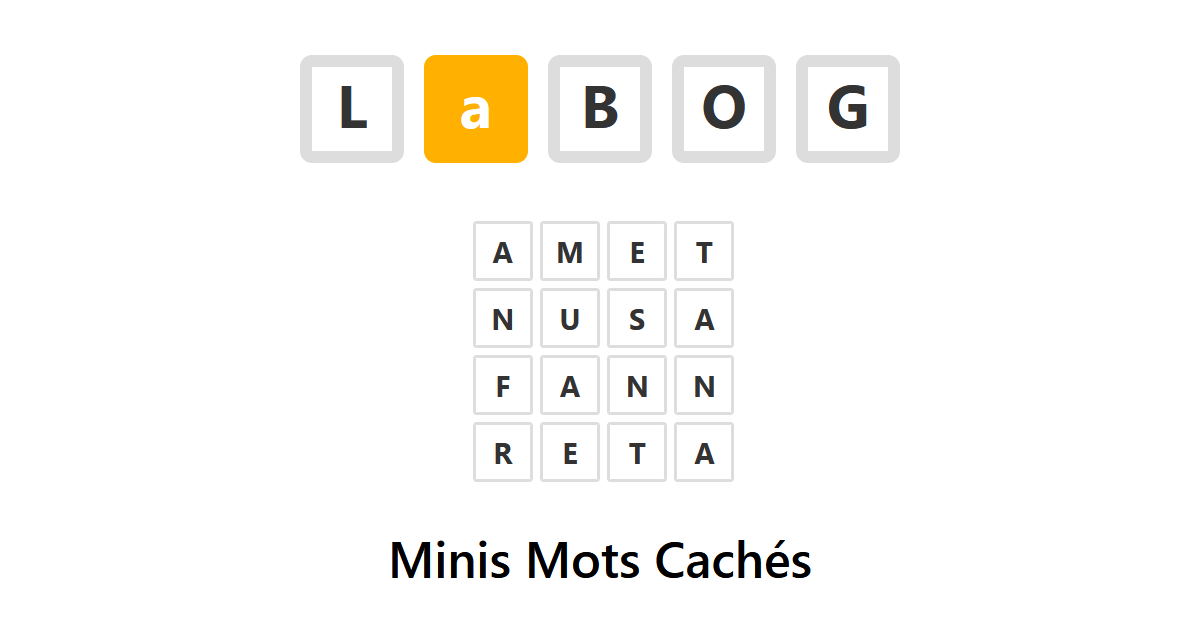
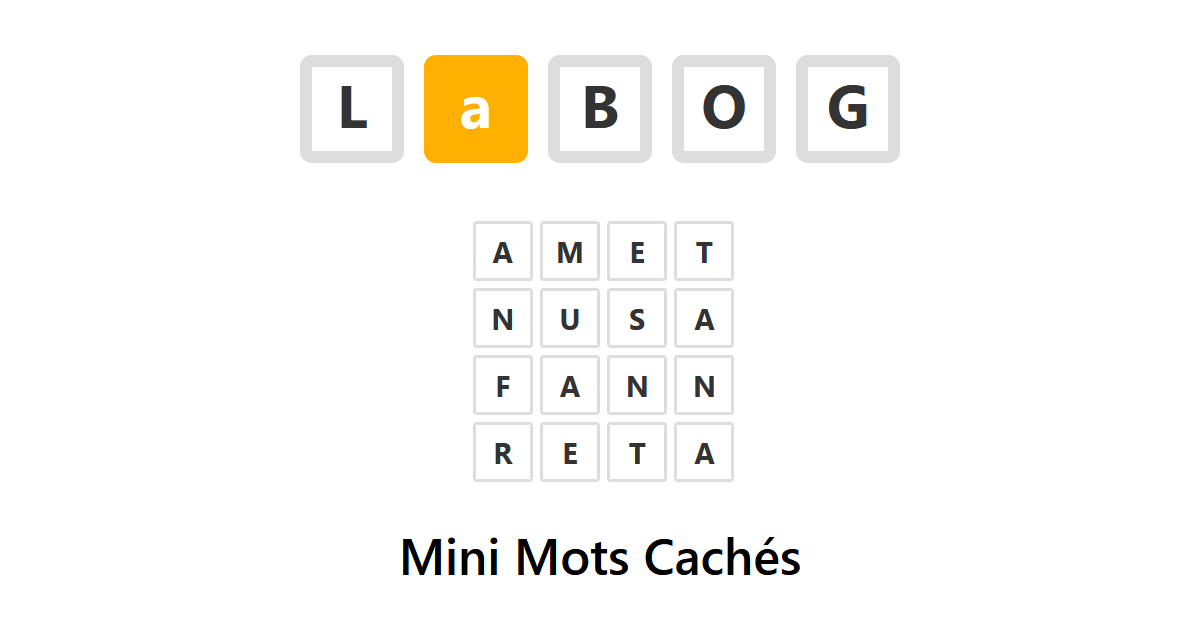
A few updates...

Changed region(s): [[0.3083, 0.8444, 0.6783, 0.9349]]

diff --git a/labog/labog.min.css b/labog/labog.min.css
@@ -1,2 +1,2 @@
 /*! normalize.css v3.0.3 | MIT License | github.com/necolas/normalize.css */
-html{font-family:sans-serif;-ms-text-size-adjust:100%;-webkit-text-size-adjust:100%}body{margin:0}article,aside,details,figcaption,figure,footer,header,hgroup,main,menu,nav,section,summary{display:block}audio,canvas,progress,video{display:inline-block;vertical-align:baseline}audio:not([controls]){display:none;height:0}[hidden],template{display:none}a{background-color:transparent}a:active,a:hover{outline:0}abbr[title]{border-bottom:1px dotted}b,strong{font-weight:700}dfn{font-style:italic}h1{font-size:2em;margin:.67em 0}mark{background:#ff0;color:#000}small{font-size:80%}sub,sup{font-size:75%;line-height:0;position:relative;vertical-align:baseline}sup{top:-.5em}sub{bottom:-.25em}img{border:0}svg:not(:root){overflow:hidden}figure{margin:1em 40px}hr{box-sizing:content-box;height:0}pre{overflow:auto}code,kbd,pre,samp{font-family:monospace,monospace;font-size:1em}button,input,optgroup,select,textarea{color:inherit;font:inherit;margin:0}button{overflow:visible}button,select{text-transform:none}button,html input[type=button],input[type=reset],input[type=submit]{-webkit-appearance:button;cursor:pointer}button[disabled],html input[disabled]{cursor:default}button::-moz-focus-inner,input::-moz-focus-inner{border:0;padding:0}input{line-height:normal}input[type=checkbox],input[type=radio]{box-sizing:border-box;padding:0}input[type=number]::-webkit-inner-spin-button,input[type=number]::-webkit-outer-spin-button{height:auto}input[type=search]{-webkit-appearance:textfield;box-sizing:content-box}input[type=search]::-webkit-search-cancel-button,input[type=search]::-webkit-search-decoration{-webkit-appearance:none}fieldset{border:1px solid silver;margin:0 2px;padding:.35em .625em .75em}legend{border:0}textarea{overflow:auto}optgroup{font-weight:700}table{border-collapse:collapse;border-spacing:0}legend,td,th{padding:0}@keyframes blink{67%{opacity:0}}@keyframes shake{0%{transform:translate(1px,1px) rotate(0deg)}10%{transform:translate(-1px,-2px) rotate(-1deg)}20%{transform:translate(-3px,0) rotate(1deg)}30%{transform:translate(3px,2px) rotate(0deg)}40%{transform:translate(1px,-1px) rotate(1deg)}50%{transform:translate(-1px,2px) rotate(-1deg)}60%{transform:translate(-3px,1px) rotate(0deg)}70%{transform:translate(3px,1px) rotate(-1deg)}80%{transform:translate(-1px,-1px) rotate(1deg)}90%{transform:translate(1px,2px) rotate(0deg)}to{transform:translate(1px,-2px) rotate(-1deg)}}@keyframes pop{0%{opacity:0;transform:scale(.8)}40%{opacity:1;transform:scale(1.1)}}@keyframes tinUpOut{0%,20%,40%,50%{opacity:1;-webkit-transform:scale(1,1) translateY(0);transform:scale(1,1) translateY(0)}10%,30%{opacity:1;-webkit-transform:scale(1.1,1.1) translateY(0);transform:scale(1.1,1.1) translateY(0)}to{opacity:0;-webkit-transform:scale(1,1) translateY(-900%);transform:scale(1,1) translateY(-900%)}}@keyframes swap{0%{border-color:var(--fond-correct)}}:root{--fond-general:#fff;--texte-normal:#333;--texte-gras:#ffb000;--texte-clair:#888;--texte-jouee:#fff;--filigrane:#ddd;--message-fond:#dc267f;--message-texte:#fff;--touche-fond:#ccc;--touche-texte:#333;--fond-correct:#ffb000;--fond-present:#648fff;--fond-absent:#eee;--fond-petales:#eee;--couleur-icone:#bbb;--texte-lien:#2962ff}@media (prefers-color-scheme:dark){:root{--fond-general:#222;--texte-normal:#eee;--texte-gras:#ffb000;--texte-jouee:#fff;--texte-clair:#888;--filigrane:#444;--message-fond:#dc267f;--message-texte:#fff;--touche-fond:#888;--touche-texte:#fff;--fond-correct:#ffb000;--fond-present:#648fff;--fond-absent:#333;--fond-petales:#ddd;--couleur-icone:#888;--texte-lien:#2962ff}}*,:after,:before{-moz-box-sizing:border-box;-webkit-box-sizing:border-box;box-sizing:border-box}html{font-family:-apple-system,BlinkMacSystemFont,"Segoe UI",Helvetica,Arial,sans-serif;font-size:100%;font-weight:400;line-height:1.5}body{background-color:var(--fond-general);color:var(--texte-normal);overscroll-behavior-y:contain;height:100vh}.container,main{display:flex;flex-direction:column}.container{height:100vh;margin:0 auto;max-width:500px;padding:0;width:100%}.fix100,.fix100 .container,.fix100>body{height:100%}main{flex:1 0 auto;flex-grow:1}svg{fill:var(--couleur-icone);height:1.75em;width:1.75em}.grid button.key-yes,.icone{cursor:pointer}.icone.ferme svg{animation:blink 1s step-end infinite}#shuffle svg{transform:rotate(33deg)}.header,header{display:flex;justify-content:space-between}header{align-items:baseline;border-bottom:1px solid var(--filigrane);padding:0 5px;user-select:none}.header{align-items:center}.reponses,h1{text-align:center}h1{font-size:2.2rem;font-weight:800;letter-spacing:.1rem;line-height:1.3;margin:-2px 0 2px}#inside{margin:5px;overflow-y:auto;height:100px}.reponses{color:var(--texte-normal);font-size:105%;margin:0;padding:0;word-spacing:.4rem}.reponses.small{font-size:100%!important}.reponses.smaller{font-size:95%!important}.reponses b{word-spacing:normal}.reponses u{color:var(--texte-gras)}@media only screen and (max-width:500px){.reponses{font-size:100%;word-spacing:.25rem}.reponses.small{font-size:95%!important}.reponses.smaller{font-size:90%!important}}.score{display:flex;flex-direction:row;align-items:center;justify-content:space-between;padding:0 5px;margin:0}.score strong{flex:4}.score span{flex:2;text-align:right;letter-spacing:-1px}.score span#jours{flex:1}#progression div{background-color:var(--filigrane);border-radius:3px;flex:1;height:6px;margin:1px 1px 9px 0}#progression div.yes,.grid button.key-played{background-color:var(--fond-present)}#progression div.boss,.bravo span.sept{background-color:var(--fond-correct)}#plateau,footer{display:flex;user-select:none}#plateau{flex-direction:row;align-items:center;justify-content:center;padding:0 5px 5px;gap:3px}.case{border:2px dotted var(--filigrane);border-radius:3px;font-size:1.25rem;font-weight:700;width:38px;height:38px;position:relative;text-align:center}.filled-ko,.filled-ok{transition:background-color .3s ease,border .3s ease}.filled-ok{background:var(--fond-correct);border-color:var(--fond-correct)}.filled-ko{background:var(--fond-absent);border-color:var(--fond-absent)}.pop{animation:pop .1s ease-in-out;border-style:solid}.curseur{animation:blink 1s step-end infinite;color:var(--texte-normal);position:absolute;left:0;right:0;margin:auto}footer{padding:5px;touch-action:manipulation}footer>div{height:218px}button,p.archive{cursor:pointer;user-select:none}button{border:0;font-family:inherit;font-weight:400;margin:0;padding:0}button:active{transform:scale(.9)}.sides{flex:1;display:flex;flex-direction:column;align-items:center;justify-content:flex-end}.sides button{background-color:var(--fond-present);border-radius:4px;color:var(--texte-jouee);font-size:.8rem;height:38px;padding:5px 0 0;width:38px}.resultats button svg,.sides button svg{fill:var(--texte-jouee)}.grid{box-sizing:border-box;display:grid;grid-template-columns:repeat(4,1fr);grid-template-rows:repeat(4,1fr);grid-gap:6px;padding:0;user-select:none;width:218px;height:218px}.grid button,.popup h2{font-weight:700;text-align:center}.grid button{border:3px solid var(--filigrane);border-radius:3px;cursor:not-allowed;font-size:1.5rem;line-height:1.33;position:relative}.grid button.key-played{border-color:var(--fond-present)}.grid button.key-last{border-color:var(--fond-correct);background-color:var(--fond-correct)}.grid button.key-no{background-color:var(--filigrane)}#keyboard{margin-bottom:2.5px}.popup{display:none;position:absolute;background-color:var(--fond-general);font-size:.92rem;line-height:1.4;padding:10px 12px;width:100%;height:100%;min-height:100%;overflow:auto;max-width:500px;z-index:11}.popup .close{margin-left:10px}.popup h2{font-size:1.25rem;text-transform:uppercase;margin:0}.note,p.goto a span{color:var(--texte-clair)}.note{margin-top:10px;font-style:italic}a,a:active,a:hover,a:visited{color:var(--texte-lien);font-weight:700}.exemples{border-top:1px solid var(--filigrane);border-bottom:1px solid var(--filigrane)}ul{margin-bottom:0;margin-top:.33rem;padding-left:25px}.informations a{text-decoration:none}.informations h4{margin:20px 0 10px}p.archive{line-height:1.7;margin-top:20px;text-align:center;touch-action:manipulation}p.archive *,svg{pointer-events:none}.archives .case{border-style:solid;display:inline-block;font-size:.8rem;font-weight:400;height:28px;margin:0 0 0 1px;width:28px}.archives .filled-ko{margin-right:3px;width:60px}.parametres .bloc{border-bottom:1px solid var(--filigrane);padding:.25rem 0 .75rem}.parametres h4{margin:0}.footnote{position:absolute;bottom:0;right:0;padding:12px;color:var(--texte-clair);font-size:.75rem;text-align:right}.message,.resultats{text-align:center}.grid button,.resultats textarea,p.goto a{background-color:var(--fond-general)}.resultats textarea{border:1px solid var(--filigrane);height:170px;overflow:hidden;padding:12px 15px;resize:none;user-select:none;width:35ch}.resultats button{color:var(--texte-jouee);border:0;border-radius:5px;font-size:1.4rem;margin:-5px 5px 0;padding:3px 10px}.resultats button.correct{background-color:var(--fond-correct);border-color:var(--fond-correct)}.resultats button.present{background-color:var(--fond-present);border-color:var(--fond-present)}.resultats button.correct svg{height:1.25rem;width:1.25rem;transform:rotate(180deg) translateY(-2px)}.resultats button.present svg{height:1.5rem;width:1.5rem;transform:translateY(4px)}.resultats .note{margin-top:-5px;font-size:.82rem}p.goto{display:flex;flex-direction:row;justify-content:space-around}p.goto a{animation:swap 2s infinite;border:2px solid var(--filigrane);border-radius:5px;color:var(--texte-lien);font-weight:700;padding:3px 5px;text-decoration:none;width:78px}p.goto a span{display:block;font-size:.78rem;font-weight:400;line-height:1;margin-top:2px}p.goto a.goto-2{animation-delay:.5s}p.goto a.goto-3{animation-delay:1s}p.goto a.goto-4{animation-delay:1.5s}.message{position:absolute;top:20%;left:0;display:none;background-color:var(--message-fond);color:var(--message-texte);padding:20px 30px;font-size:1.25rem;margin:0 auto;right:0;width:fit-content;animation:shake .4s;cursor:pointer}.bravo span,.close{display:inline-block}.bravo,.close{position:absolute}.close{color:var(--filigrane);font-size:x-small;right:5px;top:2px}.bravo{top:25%;left:0;display:none;background-color:transparent;color:var(--texte-normal);padding:5px 10px;margin:0 auto;right:0;width:fit-content;animation-name:tinUpOut;animation-duration:1s}.bravo span{background-color:var(--fond-present);color:var(--message-texte);padding:5px 10px;border-radius:5px}
+html{font-family:sans-serif;-ms-text-size-adjust:100%;-webkit-text-size-adjust:100%}body{margin:0}article,aside,details,figcaption,figure,footer,header,hgroup,main,menu,nav,section,summary{display:block}audio,canvas,progress,video{display:inline-block;vertical-align:baseline}audio:not([controls]){display:none;height:0}[hidden],template{display:none}a{background-color:transparent}a:active,a:hover{outline:0}abbr[title]{border-bottom:1px dotted}b,strong{font-weight:700}dfn{font-style:italic}h1{font-size:2em;margin:.67em 0}mark{background:#ff0;color:#000}small{font-size:80%}sub,sup{font-size:75%;line-height:0;position:relative;vertical-align:baseline}sup{top:-.5em}sub{bottom:-.25em}img{border:0}svg:not(:root){overflow:hidden}figure{margin:1em 40px}hr{box-sizing:content-box;height:0}pre{overflow:auto}code,kbd,pre,samp{font-family:monospace,monospace;font-size:1em}button,input,optgroup,select,textarea{color:inherit;font:inherit;margin:0}button{overflow:visible}button,select{text-transform:none}button,html input[type=button],input[type=reset],input[type=submit]{-webkit-appearance:button;cursor:pointer}button[disabled],html input[disabled]{cursor:default}button::-moz-focus-inner,input::-moz-focus-inner{border:0;padding:0}input{line-height:normal}input[type=checkbox],input[type=radio]{box-sizing:border-box;padding:0}input[type=number]::-webkit-inner-spin-button,input[type=number]::-webkit-outer-spin-button{height:auto}input[type=search]{-webkit-appearance:textfield;box-sizing:content-box}input[type=search]::-webkit-search-cancel-button,input[type=search]::-webkit-search-decoration{-webkit-appearance:none}fieldset{border:1px solid silver;margin:0 2px;padding:.35em .625em .75em}legend{border:0}textarea{overflow:auto}optgroup{font-weight:700}table{border-collapse:collapse;border-spacing:0}legend,td,th{padding:0}@keyframes blink{67%{opacity:0}}@keyframes shake{0%{transform:translate(1px,1px) rotate(0deg)}10%{transform:translate(-1px,-2px) rotate(-1deg)}20%{transform:translate(-3px,0) rotate(1deg)}30%{transform:translate(3px,2px) rotate(0deg)}40%{transform:translate(1px,-1px) rotate(1deg)}50%{transform:translate(-1px,2px) rotate(-1deg)}60%{transform:translate(-3px,1px) rotate(0deg)}70%{transform:translate(3px,1px) rotate(-1deg)}80%{transform:translate(-1px,-1px) rotate(1deg)}90%{transform:translate(1px,2px) rotate(0deg)}to{transform:translate(1px,-2px) rotate(-1deg)}}@keyframes pop{0%{opacity:0;transform:scale(.8)}40%{opacity:1;transform:scale(1.1)}}@keyframes tinUpOut{0%,20%,40%,50%{opacity:1;-webkit-transform:scale(1,1) translateY(0);transform:scale(1,1) translateY(0)}10%,30%{opacity:1;-webkit-transform:scale(1.1,1.1) translateY(0);transform:scale(1.1,1.1) translateY(0)}to{opacity:0;-webkit-transform:scale(1,1) translateY(-900%);transform:scale(1,1) translateY(-900%)}}@keyframes swap{0%{border-color:var(--fond-correct)}}:root{--fond-general:#fff;--texte-normal:#333;--texte-gras:#ffb000;--texte-clair:#888;--texte-jouee:#fff;--filigrane:#ddd;--message-fond:#dc267f;--message-texte:#fff;--touche-fond:#ccc;--touche-texte:#333;--fond-correct:#ffb000;--fond-present:#648fff;--fond-absent:#eee;--fond-petales:#eee;--couleur-icone:#bbb;--texte-lien:#2962ff}@media (prefers-color-scheme:dark){:root{--fond-general:#222;--texte-normal:#eee;--texte-gras:#ffb000;--texte-jouee:#fff;--texte-clair:#888;--filigrane:#444;--message-fond:#dc267f;--message-texte:#fff;--touche-fond:#888;--touche-texte:#fff;--fond-correct:#ffb000;--fond-present:#648fff;--fond-absent:#333;--fond-petales:#ddd;--couleur-icone:#888;--texte-lien:#2962ff}}*,:after,:before{-moz-box-sizing:border-box;-webkit-box-sizing:border-box;box-sizing:border-box}html{font-family:-apple-system,BlinkMacSystemFont,"Segoe UI",Helvetica,Arial,sans-serif;font-size:100%;font-weight:400;line-height:1.5}body{background-color:var(--fond-general);color:var(--texte-normal);overscroll-behavior-y:contain;height:100vh}.container,main{display:flex;flex-direction:column}.container{height:100vh;margin:0 auto;max-width:500px;padding:0;width:100%}.fix100,.fix100 .container,.fix100>body{height:100%}main{flex:1 0 auto;flex-grow:1}svg{fill:var(--couleur-icone);height:1.75em;width:1.75em}.grid button.key-yes,.icone{cursor:pointer}.icone.ferme svg{animation:blink 1s step-end infinite}#shuffle svg{transform:rotate(33deg)}.header,header{display:flex;justify-content:space-between}header{align-items:baseline;border-bottom:1px solid var(--filigrane);padding:0 5px;user-select:none}.header{align-items:center}.reponses,h1{text-align:center}h1{font-size:2.2rem;font-weight:800;letter-spacing:.1rem;line-height:1.3;margin:-2px 0 2px}#inside{margin:5px;overflow-y:auto;height:100px}.reponses{color:var(--texte-normal);font-size:105%;margin:0;padding:0;word-spacing:.4rem}.reponses.small{font-size:100%!important}.reponses.smaller{font-size:95%!important}.reponses b{word-spacing:normal}.reponses u{color:var(--texte-gras)}@media only screen and (max-width:500px){.reponses{font-size:100%;word-spacing:.25rem}.reponses.small{font-size:95%!important}.reponses.smaller{font-size:90%!important}}.score{display:flex;flex-direction:row;align-items:center;justify-content:space-between;padding:0 5px;margin:0}.score strong{flex:4}.score span{flex:2;text-align:right;letter-spacing:-1px}.score span#jours{flex:1}#progression div{background-color:var(--filigrane);border-radius:3px;flex:1;height:6px;margin:1px 1px 9px 0}#progression div.yes,.grid button.key-played{background-color:var(--fond-present)}#progression div.boss,.bravo span.sept{background-color:var(--fond-correct)}#plateau,footer{display:flex;user-select:none}#plateau{flex-direction:row;align-items:center;justify-content:center;padding:0 5px 5px;gap:3px}.case{border:2px dotted var(--filigrane);border-radius:3px;font-size:1.25rem;font-weight:700;width:38px;height:38px;position:relative;text-align:center}.filled-ko,.filled-ok{transition:background-color .3s ease,border .3s ease}.filled-ok{background:var(--fond-correct);border-color:var(--fond-correct)}.filled-ko{background:var(--fond-absent);border-color:var(--fond-absent)}.pop{animation:pop .1s ease-in-out;border-style:solid}.curseur{animation:blink 1s step-end infinite;color:var(--texte-normal);position:absolute;left:0;right:0;margin:auto}footer{padding:5px;touch-action:manipulation}footer>div{height:218px}button,p.archive{cursor:pointer;user-select:none}button{border:0;font-family:inherit;font-weight:400;margin:0;padding:0}button:active{transform:scale(.9)}.sides{flex:1;display:flex;flex-direction:column;align-items:center;justify-content:flex-end}.sides button{background-color:var(--fond-present);border-radius:4px;color:var(--texte-jouee);font-size:.8rem;height:38px;padding:5px 0 0;width:38px}.resultats button svg,.sides button svg{fill:var(--texte-jouee)}.grid{box-sizing:border-box;display:grid;grid-template-columns:repeat(4,1fr);grid-template-rows:repeat(4,1fr);grid-gap:6px;padding:0;user-select:none;width:218px;height:218px}.grid button,.popup h2{font-weight:700;text-align:center}.grid button{border:3px solid var(--filigrane);border-radius:3px;cursor:not-allowed;font-size:1.5rem;line-height:1.33;position:relative}.grid button.key-played{border-color:var(--fond-present)}.grid button.key-last{border-color:var(--fond-correct);background-color:var(--fond-correct)}.grid button.key-no{background-color:var(--filigrane)}#keyboard{margin-bottom:2.5px}.popup{display:none;position:absolute;background-color:var(--fond-general);font-size:.92rem;line-height:1.4;padding:10px 12px;width:100%;height:100%;min-height:100%;overflow:auto;max-width:500px;z-index:11}.popup .close{margin-left:10px}.popup h2{font-size:1.25rem;text-transform:uppercase;margin:0}.note,p.goto a span{color:var(--texte-clair)}.note{margin-top:10px;font-style:italic}a,a:active,a:hover,a:visited{color:var(--texte-lien);font-weight:700}.exemples{border-top:1px solid var(--filigrane);border-bottom:1px solid var(--filigrane)}ul{margin-bottom:0;margin-top:.33rem;padding-left:25px}.informations a{text-decoration:none}.informations h4{margin:20px 0 10px}p.archive{line-height:1.7;margin-top:20px;text-align:center;touch-action:manipulation}p.archive *,svg{pointer-events:none}.archives .case{border-style:solid;display:inline-block;font-size:.8rem;font-weight:400;height:28px;margin:0 0 0 1px;width:28px}.archives .filled-ko{margin-right:3px;width:60px}.parametres .bloc{border-bottom:1px solid var(--filigrane);padding:.25rem 0 .75rem}.parametres h4{margin:0}.footnote{position:absolute;bottom:0;right:0;padding:12px;color:var(--texte-clair);font-size:.75rem;text-align:right}.message,.resultats{text-align:center}.grid button,.resultats textarea,p.goto a{background-color:var(--fond-general)}.resultats textarea{border:1px solid var(--filigrane);height:170px;overflow:hidden;padding:12px 15px;resize:none;user-select:none;width:35ch}.resultats button{color:var(--texte-jouee);border:0;border-radius:5px;font-size:1.4rem;margin:-5px 5px 0;padding:3px 10px}.resultats button.correct{background-color:var(--fond-correct);border-color:var(--fond-correct)}.resultats button.present{background-color:var(--fond-present);border-color:var(--fond-present)}.resultats button.correct svg{height:1.25rem;width:1.25rem;transform:rotate(180deg) translateY(-2px)}.resultats button.present svg{height:1.5rem;width:1.5rem;transform:translateY(4px)}.resultats .note{margin-top:-5px;font-size:.82rem}p.goto{display:flex;flex-direction:row;justify-content:space-around}p.goto a{animation:swap 2s infinite;border:2px solid var(--filigrane);border-radius:5px;color:var(--texte-lien);font-weight:700;padding:3px;text-decoration:none;width:78px}p.goto a span{display:block;font-size:.78rem;font-weight:400;line-height:1;margin-top:2px}p.goto a.goto-2{animation-delay:.5s}p.goto a.goto-3{animation-delay:1s}p.goto a.goto-4{animation-delay:1.5s}.message{position:absolute;top:20%;left:0;display:none;background-color:var(--message-fond);color:var(--message-texte);padding:20px 30px;font-size:1.25rem;margin:0 auto;right:0;width:fit-content;animation:shake .4s;cursor:pointer}.bravo span,.close{display:inline-block}.bravo,.close{position:absolute}.close{color:var(--filigrane);font-size:x-small;right:5px;top:2px}.bravo{top:25%;left:0;display:none;background-color:transparent;color:var(--texte-normal);padding:5px 10px;margin:0 auto;right:0;width:fit-content;animation-name:tinUpOut;animation-duration:1s}.bravo span{background-color:var(--fond-present);color:var(--message-texte);padding:5px 10px;border-radius:5px}

diff --git a/labog/labog.min.js b/labog/labog.min.js
@@ -1,8 +1,8 @@
-"use strict";function Y(){const n=$("#content").clientHeight-15;$8.style.height=n+"px"}function α(){z={X:0,a:-1,b:"",c:[],d:"",e:[],f:0,g:0,h:[0,0,0,0,0,0,0,0,0,0],i:-1,p:!1,k:"https://www.solitaire-play.com/labog/",l:["","","","","","","","",""],m:[-1,-1,-1,-1,-1,-1,-1,-1,-1],n:9,o:!1,j:!1,q:0};z.a=S();let n=ψ.find(n=>n.id===z.a);z.b=n.b;z.c=n.c.split(" ");δ($("#puzzle"),`#${z.a}`);X();z.o?β($D):W()}function V(n,t,i){t>=2e3&&(n+="<a class=close>✕<\/a>",γ($7),z.j=!0);$5.innerHTML=n;β($5);timoutId=setTimeout(function(){γ($5);i&&i();z.j=!1},t)}function T(n,t=-1){if(!z.j)if(n===13){let n=M();if(z.d==="")return;if(n!==""){z.j=!0;V(n,750,R);return}AA();z.X=0}else if(n===8)z.X>0&&(A(z.X),z.X--,z.l[z.X]="",z.m[z.X]=-1,A(z.X),C(z.X),B(),F(!0));else{if(t===-1)return;if(n>=65&&n<=90){if(N(t)===!1)return;z.X<z.n&&(z.l[z.X]=String.fromCharCode(n),z.m[z.X]=t,A(z.X,!0),F(!0),z.X++,C(z.X),B())}}}function N(n){if(z.X===0)return!0;if(z.m.includes(n))return!1;const t=z.m[z.X-1],i=Math.floor(t/4),r=t%4,u=Math.floor(n/4),f=n%4;return u<i-1?!1:u>i+1?!1:f<r-1?!1:f>r+1?!1:!0}function AA(){H();F();z.e.length===1&&L(0);const f=K(z.d);z.f+=f;E(f);J(!0);G();Z();R()}function A(n,t){if(n!==z.n){δ($1[n],z.l[n]);let i="case filled"+(t?" pop":"");$1[n].className=i}}function R(){z.j=!1;for(let n=0;n<z.n;n++){z.l[n]="";δ($1[n],"");$1[n].className="case";const t=z.m[n];t!==-1&&($2[t].className="");z.m[n]=-1}z.X=0;C(z.X);B();try{clearTimeout(timoutId)}finally{}γ($5);β($7)}function B(){const n=z.X===0?-1:z.m[z.X-1];for(let t=0;t<16;t++){let i="key-yes";t===n?i="key-last":z.m.includes(t)?i="key-played":N(t)===!1?i="key-no":z.X===z.n&&(i="key-no");$2[t].className=i}}function C(n){z.j||n>z.n-1||($1[n].innerHTML+="<span class='curseur'>_<\/span>")}function E(f){let n="Bien";f>6?n="Super":f>4&&(n="Bravo");$6.innerHTML=`<span>${n} !</span> <b>+${f}</b>`;β($6);setTimeout(function(){if(γ($6),z.p){confetti();const n="Victoire !<br>C'est "+ω[z.i];V(n,14e3,R)}else if(z.c.length===z.e.length){confetti();V("C'est fini !<br><br>¯\\_(ツ)_/¯",14e3,R)}},950)}function G(){δ($9,ω[z.i]);δ($B,z.e.length+" mot"+(z.e.length>1?"s":""));δ($C,z.f+" point"+(z.f>1?"s":""));let n="";z.q>0&&z.q<9&&(n="J-"+z.q);δ($A,n);for(let n=0;n<8;n++){const t=`#progression div:nth-child(${n+1})`;$(t).className="";n<z.i&&($(t).className=z.i===9?"boss":"yes")}}function U(n){return n===""?n:n[0].toUpperCase()+n.substring(1).toLowerCase()}function F(n){let e=z.e.map(n=>U(n)).join(" ");if(n){const d=U(z.l.join(""));e=" "+e;e=e.replaceAll(" "+d," <u>"+d+"<\/u>").trim()}z.q===-1&&(e+="<br><b>Rafraîchir pour une nouvelle partie !<\/b>");$7.className=z.e.length>75?"reponses smaller":z.e.length>50?"reponses small":"reponses";$7.innerHTML=e;$8.scrollTop=$8.scrollHeight}function H(){z.e.sort();z.e.push(z.d)}function I(){z.g=0;for(let n=0;n<z.c.length;n++){const f=K(z.c[n]);z.g+=f}z.f=0;for(let n=0;n<z.e.length;n++)z.f+=K(z.e[n]);z.h[0]=0;z.h[1]=Math.floor(z.g/50);z.h[2]=Math.floor(z.g/20);z.h[3]=Math.floor(z.g/10);z.h[4]=Math.floor(15*z.g/100);z.h[5]=Math.floor(z.g/4);z.h[6]=Math.floor(35*z.g/100);z.h[7]=Math.floor(45*z.g/100);z.h[8]=Math.floor(60*z.g/100);z.h[9]=Math.floor(z.g/1)}function J(n){const t=z.i;z.i=0;z.p=!1;for(let n=0;n<z.h.length;n++)z.f>=z.h[n]&&(z.i=n);n&&t!==z.i&&(L(z.i),z.p=z.i===8)}function K(n){const t=n.length;return t===4?1:t>=7?t+2*(t-6):t}function D(){const n=z.b.split("");for(let t=0;t<n.length;t++)$2[t].textContent=n[t]}function M(){if(z.d=z.l.join(""),z.d.length<4)return"Trop court";const n=z.e.indexOf(z.d);return n!==-1?"Déjà trouvé":z.c.indexOf(z.d)===-1?"Mot incorrect":""}function W(){let n=`#LaBOG ${z.a} (bêta)
+"use strict";function Y(){const n=$("#content").clientHeight-15;$8.style.height=n+"px"}function α(){z={X:0,a:-1,b:"",c:[],d:"",e:[],f:0,g:0,h:[0,0,0,0,0,0,0,0,0,0],i:-1,p:!1,k:"https://www.solitaire-play.com/labog/",l:["","","","","","","","",""],m:[-1,-1,-1,-1,-1,-1,-1,-1,-1],n:9,o:!1,j:!1,q:0};z.a=S();let i=ψ.find(n=>n.id===z.a);z.b=i.b;z.c=i.c.split(" ");δ($("#puzzle"),`#${z.a}`);X();let n=$D.innerHTML;n=n.replace("%%",z.c.length.toString());let t="<ul>";for(let n=1;n<ω.length-1;n++)t+=`<li>${ω[n]} : ${z.h[n]}</li>`;t+="<\/ul>";n=n.replace("%%",t);$D.innerHTML=n;z.o?β($D):W()}function V(n,t,i){t>=2e3&&(n+="<a class=close>✕<\/a>",γ($7),z.j=!0);$5.innerHTML=n;β($5);timoutId=setTimeout(function(){γ($5);i&&i();z.j=!1},t)}function T(n,t=-1){if(!z.j)if(n===13){let n=M();if(z.d==="")return;if(n!==""){z.j=!0;V(n,750,R);return}AA();z.X=0}else if(n===8)z.X>0&&(A(z.X),z.X--,z.l[z.X]="",z.m[z.X]=-1,A(z.X),C(z.X),B(),F(!0));else{if(t===-1)return;if(n>=65&&n<=90){if(N(t)===!1)return;if(z.X<z.n&&(z.l[z.X]=String.fromCharCode(n),z.m[z.X]=t,A(z.X,!0),F(!0),z.X++,C(z.X),B()),z.X>1){const n=z.l.join("");console.log("mot",n);for(let n=0;n<z.X;n++)console.log(z.l[z.X])}}}}function N(n){if(z.X===0)return!0;if(z.m.includes(n))return!1;const t=z.m[z.X-1],i=Math.floor(t/4),r=t%4,u=Math.floor(n/4),f=n%4;return u<i-1?!1:u>i+1?!1:f<r-1?!1:f>r+1?!1:!0}function AA(){H();F();z.e.length===1&&L(0);const f=K(z.d);z.f+=f;E(f);J(!0);G();Z();R()}function A(n,t){if(n!==z.n){δ($1[n],z.l[n]);let i="case filled"+(t?" pop":"");$1[n].className=i}}function R(){z.j=!1;for(let n=0;n<z.n;n++){z.l[n]="";δ($1[n],"");$1[n].className="case";const t=z.m[n];t!==-1&&($2[t].className="");z.m[n]=-1}z.X=0;C(z.X);B();try{clearTimeout(timoutId)}finally{}γ($5);β($7)}function B(){const n=z.X===0?-1:z.m[z.X-1];for(let t=0;t<16;t++){let i="key-yes";t===n?i="key-last":z.m.includes(t)?i="key-played":N(t)===!1?i="key-no":z.X===z.n&&(i="key-no");$2[t].className=i}}function C(n){z.j||n>z.n-1||($1[n].innerHTML+="<span class='curseur'>_<\/span>")}function E(f){let n="Bien";f>6?n="Super":f>4&&(n="Bravo");$6.innerHTML=`<span>${n} !</span> <b>+${f}</b>`;β($6);setTimeout(function(){if(γ($6),z.p){confetti();const n="Victoire !<br>C'est "+ω[z.i];V(n,14e3,R)}else if(z.c.length===z.e.length){confetti();V("C'est fini !<br><br>¯\\_(ツ)_/¯",14e3,R)}},950)}function G(){δ($9,ω[z.i]);δ($B,z.e.length+" mot"+(z.e.length>1?"s":""));δ($C,z.f+" point"+(z.f>1?"s":""));let n="";z.q>0&&z.q<9&&(n="J-"+z.q);δ($A,n);for(let n=0;n<8;n++){const t=`#progression div:nth-child(${n+1})`;$(t).className="";n<z.i&&($(t).className=z.i===9?"boss":"yes")}}function U(n){return n===""?n:n[0].toUpperCase()+n.substring(1).toLowerCase()}function F(n){let e=z.e.map(n=>U(n)).join(" ");if(n){const d=U(z.l.join(""));e=" "+e;e=e.replaceAll(" "+d," <u>"+d+"<\/u>").trim()}z.q===-1&&(e+="<br><b>Rafraîchir pour une nouvelle partie !<\/b>");$7.className=z.e.length>75?"reponses smaller":z.e.length>50?"reponses small":"reponses";$7.innerHTML=e;$8.scrollTop=$8.scrollHeight}function H(){z.e.sort();z.e.push(z.d)}function I(){z.g=0;for(let n=0;n<z.c.length;n++){const f=K(z.c[n]);z.g+=f}z.f=0;for(let n=0;n<z.e.length;n++)z.f+=K(z.e[n]);let h=[0,2,5,10,15,25,35,45,60,100];z.a>0&&(h=[0,2,5,8,15,25,39,49,69,100]);for(let n=0;n<h.length;n++)z.h[n]=Math.floor(h[n]*z.g/100)}function J(n){const t=z.i;z.i=0;z.p=!1;for(let n=0;n<z.h.length;n++)z.f>=z.h[n]&&(z.i=n);n&&t!==z.i&&(L(z.i),z.p=z.i===8)}function K(n){let f=[1,5,6,9,12,15];return z.a>0&&(f=[1,4,6,8,10,12]),f[n.length-4]}function D(){const n=z.b.split("");for(let t=0;t<n.length;t++)$2[t].textContent=n[t]}function M(){if(z.d=z.l.join(""),z.d.length<4)return"Trop court";const n=z.e.indexOf(z.d);return n!==-1?"Déjà trouvé":z.c.indexOf(z.d)===-1?"Mot incorrect":""}function W(){let n=`#LaBOG ${z.a} (bêta)
 
 `+`${ω[z.i]} - `+`${z.e.length} mot${z.e.length>1?"s":""} - `+`${z.f} point${z.f>1?"s":""}
 `+`⬜⬜⬜⬜⬜⬜⬜⬜`;const h=ω.length-1;for(let t=1;t<=z.i;t++)n=n.replace("⬜","🟦");z.i===h&&(n=n.replaceAll("🟦","🟧"));n+="\n#LeMotLeJeu\n";$(".parametres textarea").value=n+`
 ${z.k.substring(12)}
 `;z.grille=n+`
 ${z.k}
-`;β($F)}function Z(){const n={partie:{numero:z.a,lettres:z.b,mots:z.e.sort().join(" ").trim()}};window.localStorage.setItem("labog",JSON.stringify(n))}function X(){let n=JSON.parse(window.localStorage.getItem("labog"));n===null&&(n={partie:{numero:-1}},z.o=!0);n.partie.numero===z.a-1?(n={partie:{numero:z.a,lettres:z.b,mots:"",hier:{lettres:n.partie.lettres,mots:n.partie.mots}}},window.localStorage.setItem("labog",JSON.stringify(n))):n.partie.numero!==z.a&&(n.partie.mots="");z.e=n.partie.mots?n.partie.mots.split(" "):[];F();I();J(!1);G();D();z.X=0;R()}function S(){return 1}function L(n){let t=`https://lemot.goatcounter.com/count?p=/labog-${z.a}-${n}&e=1`;(new Image).src=t}function O(){navigator.clipboard?navigator.clipboard.writeText(z.grille).then(Q,P):P()}function P(){const n=document.createElement("textarea");δ(n,z.grille);document.body.appendChild(n);n.select();const t=document.execCommand("copy");document.body.removeChild(n);t?Q():Q("Impossible de copier dans le presse-papier :(")}function Q(n){const t=$(".resultats .note"),i=t.textContent;n=n||"Grille copiée dans le presse-papier :)";δ(t,n);setTimeout(function(){δ($(".resultats .note"),i)},1e4)}function β(n){n.style.display="block"}function γ(n){n.style.display="none"}function δ(n,t){n.textContent=t}function $(n){return document.querySelector(n)}const ω=["C'est parti","Pas mal","En progrès","Bien","Fortiche","Joli","Super","Épatant","Génial 🥳","Formidable !",],ψ=[{id:1,b:"LOETNRNAFEGNRERA",c:"AERER AERONEF AGAR AGATE AGEE AGENT AGENTE AGNAT AGNATE AGREER ANAR ANEE ANGE ANNEE ANNONE ANON ANONE ANTE ARENA ARENE ARGAN ARGENT ARGENTAN ARGENTER EGARE EGARER EGRENER ENFER ENOL ENTER ETAGE ETAGER ETAGERE ETANG FENG FENTE FERA FREGATE FREGATER FRENE FREON FRERE FRET FRONT GANT GANTER GARE GARER GATER GENE GENER GENET GENRE GENT GENTE GERER GERONTE GNON GREEN GREER GRENAT GRENER LONE LONG LONGE LONGER LONGERE LORGNER NAGE NAGEE NAGER NANA NANAR NEGRE NEGRO NENE NEON NERF NONE ONAGRE OREE ORGA ORGANE ORGE ORNER RAGE RAGER RAGREER RANG RANGEE RANGER REER REFENTE REFERE REFERENT REFRENER REGATE REGATER REGENT REGENTE REGENTER REGNANT REGNANTE REGNE REGNER REGRET RENE RENEGAT RENTE RENTER RONGER TANNAGE TANNE TANNER TENON TENOR TERNE"},],$1=document.querySelectorAll("#plateau .case"),$2=document.querySelectorAll(".grid button"),$4=$("#keyboard"),$5=$(".message"),$6=$(".bravo"),$7=$(".reponses"),$8=$("#inside"),$9=$("#niveau"),$A=$("#jours"),$B=$("#mots"),$C=$("#points");window.addEventListener("load",Y);window.addEventListener("resize",Y);const $D=$(".instructions");$(".aide").addEventListener("click",()=>{β($D)},!1);const $F=$(".parametres");$(".outils").addEventListener("click",()=>{W()},!1);$(".resultats button").addEventListener("click",O);document.body.addEventListener("click",n=>{if(n.target.className.indexOf("ferme")!==-1)return γ($D),γ($F),!1});let timoutId=-1;$5.addEventListener("click",R);document.addEventListener("keyup",n=>{n.ctrlKey||T(n.which)},!1);$4.addEventListener("click",n=>{if(z.j){n.target.blur();return}let t=n.target.textContent;if(t.length!==1)n.target.id==="enter"?T(13):n.target.id==="back"&&T(8);else{const i=+n.target.id.substring(3);T(t.charCodeAt(),i)}n.target.blur()},!1);let z={};α()
+`;β($F)}function Z(){const n={partie:{numero:z.a,lettres:z.b,mots:z.e.sort().join(" ").trim()}};window.localStorage.setItem("labog",JSON.stringify(n))}function X(){let n=JSON.parse(window.localStorage.getItem("labog"));n===null&&(n={partie:{numero:-1}},z.o=!0);n.partie.numero===z.a-1?(n={partie:{numero:z.a,lettres:z.b,mots:"",hier:{lettres:n.partie.lettres,mots:n.partie.mots}}},window.localStorage.setItem("labog",JSON.stringify(n))):n.partie.numero!==z.a&&(n.partie.mots="");z.e=n.partie.mots?n.partie.mots.split(" "):[];F();I();J(!1);G();D();z.X=0;R()}function S(n){n=n||new Date;const t=n.toISOString().substring(0,10);return t>="2022-09-15"?11:t>="2022-09-12"?10:t>="2022-09-08"?9:t>="2022-09-05"?8:t>="2022-09-01"?7:t>="2022-08-29"?6:t>="2022-08-25"?5:t>="2022-08-22"?4:t>="2022-08-18"?3:t>="2022-08-15"?2:1}function L(n){let t=`https://lemot.goatcounter.com/count?p=/labog-${z.a}-${n}&e=1`;(new Image).src=t}function O(){navigator.clipboard?navigator.clipboard.writeText(z.grille).then(Q,P):P()}function P(){const n=document.createElement("textarea");δ(n,z.grille);document.body.appendChild(n);n.select();const t=document.execCommand("copy");document.body.removeChild(n);t?Q():Q("Impossible de copier dans le presse-papier :(")}function Q(n){const t=$(".resultats .note"),i=t.textContent;n=n||"Grille copiée dans le presse-papier :)";δ(t,n);setTimeout(function(){δ($(".resultats .note"),i)},1e4)}function β(n){n.style.display="block"}function γ(n){n.style.display="none"}function δ(n,t){n.textContent=t}function $(n){return document.querySelector(n)}const ω=["C'est parti","Pas mal","En progrès","Bien","Fortiche","Joli","Super","Épatant","Génial 🥳","Formidable !",],ψ=[{id:1,b:"LOETNRNAFEGNRERA",c:"AERER AERONEF AGAR AGATE AGEE AGENT AGENTE AGNAT AGNATE AGREER ANAR ANEE ANGE ANNEE ANNONE ANON ANONE ANTE ARENA ARENE ARGAN ARGENT ARGENTAN ARGENTER EGARE EGARER EGRENER ENFER ENOL ENTER ETAGE ETAGER ETAGERE ETANG FENG FENTE FERA FREGATE FREGATER FRENE FREON FRERE FRET FRONT GANT GANTER GARE GARER GATER GENE GENER GENET GENRE GENT GENTE GERER GERONTE GNON GREEN GREER GRENAT GRENER LONE LONG LONGE LONGER LONGERE LORGNER NAGE NAGEE NAGER NANA NANAR NEGRE NEGRO NENE NEON NERF NONE ONAGRE OREE ORGA ORGANE ORGE ORNER RAGE RAGER RAGREER RANG RANGEE RANGER REER REFENTE REFERE REFERENT REFRENER REGATE REGATER REGENT REGENTE REGENTER REGNANT REGNANTE REGNE REGNER REGRET RENE RENEGAT RENTE RENTER RONGER TANNAGE TANNE TANNER TENON TENOR TERNE"},{id:2,b:"ERSTSOLCNTOIIEEI",c:"CILS CLONE CLONIE CLORE CLOS COLO COLON COLONIE COLONS COLOS COLS COLT COLTS COOL COOLIE COOLS COTE COTON COTONS ENOL ENOLS ENTORSE EONS EROS ESTE ESTOC ESTOCS ETOC ETOCS ILOT ILOTE ILOTS LONE LORS LOSER LOSERS LOTE LOTO LOTOS LOTS NETS NOSTOC NOSTOCS NOTE OEIL OEILS ORES OSER RESTE RESTO RESTOS ROESTI RONEO ROSE ROSTI ROTI ROTIE ROTIN ROTINS ROTS SCIE SCOLIE SCOTIE SCOTS SEROTINE SOLI SOLO SOLS SONIE SONS SORE SORES SOTIE SOTS STENO STENOS STOLON STORE TENOR TENORS TIEN TIENS TINE TINS TOCS TONIE TONS TORE TORES TORS TORSE"},{id:3,b:"NFELHLBCBEEDILES",c:"BEBE BEBES BEDE BEDES BEES BILE BILES BLED BLEDS BLES CLEF DELEBILE DELEBILES DELIE ELFE FECES FELE FELEE FELEES FELES ILES LEBEL SELF"},{id:4,b:"GACTBPRRBAUAREQP",c:"ABAQUE ABBE ABER ACRA ARABE AURA BABA BAQUER BARAQUE BARAQUER BARBE BEAU BEUR BRAQUE CARABE CARAQUE CRABE CRAQUER CRUE GABARE PAQUE PARA PARC PAREUR PART PUER QUART RAQUER RARE REBAB RUER TRABE TRAC TRAPU TRAPUE TRAQUE TRAQUER"},{id:5,b:"STLGOPIAPINADXUT",c:"ALPIN ALTO ALTOS ANAL ANAUX DIOT DIOTS GAIN GALIPOT GALIPOTS GANT GLIAUX IPSO LAIT LAITS LIANT LINI LITS OINT OPIAT PIAN PIPI PIPIT PIPITS PLAGIAT PLAIN PLAN PLANT PLIANT POINT POINTAUX POINTU POIX POPS POST POTIN POTS SOIN SPIN SPINAL SPINAUX SPOT STOP TAIGA TAIN TAUX TIAN TIPI TOPS"},{id:6,b:"ZINDAIESTXKOIOGT",c:"AINE AINES AXES AZINE AZINES DENI EXIT INDE INDES INDEX INITIO IOTA IXIA KINE KINES NEOS NIXE NIXES OXAZINE OXAZINES SEIN SEIZAIN SEXTO SKIN TAIE TAIES TAIN TAINS TAXE TAXES TAXI TAXIE TAXIES TIEN TIENS TINE TINES TINS TOKEN TOKENS TOXINE TOXINES ZAIN ZAINS"},{id:7,b:"FUBHOGEEEEIUSULH",c:"BEES BEGU BEIGE BEIGES BEUH BUEE BUEES ELUE ELUES ELUS FOUEE FOUEES GUEULE GUEULES HIES HILE HILES HUEE HUEES HUILE HUILES HUILEUSE IGUE ILES ILEUS IULE IULES LEGE LEGES LIEGE LIEGES LIEGEUSE LIES LIEU LIEUE LIEUES LIEUS LIEUSE LIGE LIGES LIGUE OEIL SEUIL SEUL SEULE SUEE SUIE"},{id:8,b:"EELRACHYTBRCESOS",c:"ACHE ACTE ACTES BACHE BATCH BATS BETA BOCHE BROC BROCHE BROCS CABOCHE CABOCHEE CABS CATE CATES CHYLE COBS CORB CORBAC CORBS CORS CORSE CORSET CROC CROCHE CROCS EBAT EBATS ECHE HYLE LYCHEE LYCOSE OBSTACLE ORBE ORBES ORCS ROBE ROBES ROBS ROCHE ROCS ROSE SEBACE SEBACEE SETACE SETACEE SOCS SORBE SORBES SORBET SORBETS TABES TABOR TABORS TACHE TACLE TAEL"},{id:9,b:"OINGHAIADFBELENS",c:"ABIES AFIN BAIE BAIES BAIGNADE BAIN BANG BENE BENEF BIEN BIENS DABA DANIEN DANIENS DEFI DENSE ENFIN FADE FANA GABIAN GAIE GAIES GAIN GIFLE HAIE HAIES NABI NAFE NAIADE NAIF NIFE OING SEIN SEING SENE"},{id:10,b:"KAUBYRSINOREEIUI",c:"ARROI AUBIER AUBIERS AURONE AURORE AURORES BISE BISER BISON BISOU BUIRE BUIRES BUIS BURKA BURKAS BURNE BURON BUSE BUSER ENOUER ENRAYOIR ENRAYOIRS ENROUER ERINE EROS ERRONE EURO EUROS INOUI INOUIE INOUIES IRES IRIEN IRIS IRONE IRONIE NEOS NOIR NOIRE NOIRES NOIRS NOUE NOUER NOUES NOYAU ORES ORIBUS ORIN OSER OSIER OSIRIEN OUIE OUIES OUIN OUIR OURS OURSE RASE RASER RASEUR RASOIR RAYON REIS RIEN RIES ROSE ROSER ROSEUR ROSIER ROSIR ROUE ROUER ROUERIE ROUES ROUIR RUBIS RUES RUINE RUSE RUSER SARON SAUR SAYON SBIRE SERIE SERIN SERINE SIERRA SIEUR SIRE SOIE SOIN SOIR SONIE SORE SOUE SOUI SOYA SUBIR SUIE URES URINE URNE USER"},{id:11,b:"VUCSAENTGANEMBMN",c:"AGAME AGAVE AGENT AGENTE AGENTS AMEN AMENE ANNEAU ANNUA ANTE ANTENNE AUNAGE AUNE AUVENT AUVENTS AVEC AVEN AVENANT AVENANTE AVENANTS AVENS AVENT AVENTS AVENU AVEU BANC BANCS BANNE BANS CEANS CENE CENS CENT CENTS CUVAGE CUVE EMANE ENCUVAGE GANS GANT GANTS GAVE GEANT GEANTE GEANTS GENANT GENANTE GENANTS GENE GENET GENETS GENS GENT GENTE GENTS MAGE MANNE MANS MANTE MANU MENAGE MENEAU MENU MENUE METS NAGE NEANT NEANTS NENE NETS NUAGE SCEAU SCENE STEM TENU TENUE VEAU VECU VEGAN VEGANE VEGANS VENANT VENANTE VENANTS VENET VENETS VENT VENTE VENTS"},],$1=document.querySelectorAll("#plateau .case"),$2=document.querySelectorAll(".grid button"),$4=$("#keyboard"),$5=$(".message"),$6=$(".bravo"),$7=$(".reponses"),$8=$("#inside"),$9=$("#niveau"),$A=$("#jours"),$B=$("#mots"),$C=$("#points");window.addEventListener("load",Y);window.addEventListener("resize",Y);const $D=$(".instructions");$(".aide").addEventListener("click",()=>{β($D)},!1);const $F=$(".parametres");$(".outils").addEventListener("click",()=>{W()},!1);$(".resultats button").addEventListener("click",O);document.body.addEventListener("click",n=>{if(n.target.className.indexOf("ferme")!==-1)return γ($D),γ($F),!1});let timoutId=-1;$5.addEventListener("click",R);document.addEventListener("keyup",n=>{n.ctrlKey||T(n.which)},!1);$4.addEventListener("click",n=>{if(z.j){n.target.blur();return}let t=n.target.textContent;if(t.length!==1)n.target.id==="enter"?T(13):n.target.id==="back"&&T(8);else{const i=+n.target.id.substring(3);T(t.charCodeAt(),i)}n.target.blur()},!1);let z={};α()

diff --git a/labog/index.html b/labog/index.html
@@ -5,12 +5,12 @@
   <meta charset="UTF-8">
   <meta http-equiv="X-UA-Compatible" content="IE=edge">
   <meta name="viewport" content="width=device-width, initial-scale=1.0">
-  <title>LaBOG - Minis Mots Cachés</title>
+  <title>LaBOG - Mini Mots Cachés</title>
   <meta name="description" content="Combien de mots pouvez-vous découvrir avec 16 lettres ? Des mots cachés en français, pour jouer gratuitement sur ordinateur, tablette ou téléphone.">
   <meta name="keywords" content="Mots cachés, Word Hunt, Boggle, Français, Scrabble, Wordle, Jeu, Puzzle, Vocabulaire, Dictionnaire, Mot, Mots, Croisés, Fléchés, Mélés, Deviner, Découvrir, France, Français, Gratuit, Jouer, HTML5, JS, JavaScript">
   <meta property="og:url" content="https://www.solitaire-play.com/labog/">
   <meta property="og:type" content="website">
-  <meta property="og:title" content="LaBOG - Minis Mots Cachés">
+  <meta property="og:title" content="LaBOG - Mini Mots Cachés">
   <meta property="og:image" content="https://www.solitaire-play.com/labog/labog.min.png">
   <meta name="twitter:card" content="summary">
   <meta name="twitter:image" content="https://www.solitaire-play.com/labog/labog.min.png">
@@ -116,34 +116,28 @@
         </div>
       </div>
       <div class="bloc">
-        <h4>Règles du jeu</h4>
+        <h4>Règle du jeu</h4>
         <ul>
           <li>16 lettres au départ</li>
-          <li>117 mots de 4 à 9 lettres à l'arrivée</li>
+          <li>%% mots de 4 à 9 lettres à l'arrivée</li>
           <li>Uniquement des lettres adjacentes (horizontalement, verticalement, ou diagonalement)</li>
           <li>Faut pas repasser sur une lettre déjà utilisée</li>
         </ul>
       </div>
       <div class="bloc">
-        <h4>Notes</h4>
+        <h4>Niveaux</h4>
+        %%
+      </div>
+      <div class="bloc">
+        <h4>Mots acceptés</h4>
         <ul>
-          <li>Les mots acceptés proviennent uniquement de Grammalecte</li>
-          <li>Il n'y a ni vérification ni relecture des mots à découvrir...</li>
+          <li>Ils proviennent uniquement de Grammalecte</li>
+          <li>Il n'y a ni vérification ni relecture...</li>
           <li>Les formes conjuguées ne sont pas valables</li>
         </ul>
-      </div>
-      <div class="bloc">
-        <h4>Avertissement : le jeu n'est pas "fini" !</h4>
-        <ul>
-          <li>Le comptage des points peut changer</li>
-          <li>Le score pour chaque niveau peut varier</li>
-          <li>Les mots déjà trouvés peuvent disparaitre</li>
-          <li>Ou pire...</li>
-        </ul>
-      </div>
-      <div class="bloc">
-        <h4>Bon courage :)</h4>
-        <p>Date de la prochaine partie : ... ?</p>
+        <p class="note">
+          Prochaine partie lundi ou mercredi.
+        </p>
       </div>
     </div>
 
@@ -188,7 +182,7 @@
           </a>
           <a href="/labog/" class="goto-3">
             LaBOG
-            <span>Minis Mots<br>Cachés</span>
+            <span>Mini Mots<br>Cachés</span>
           </a>
           <a href="/labee/" class="goto-4">
             LaBEE
